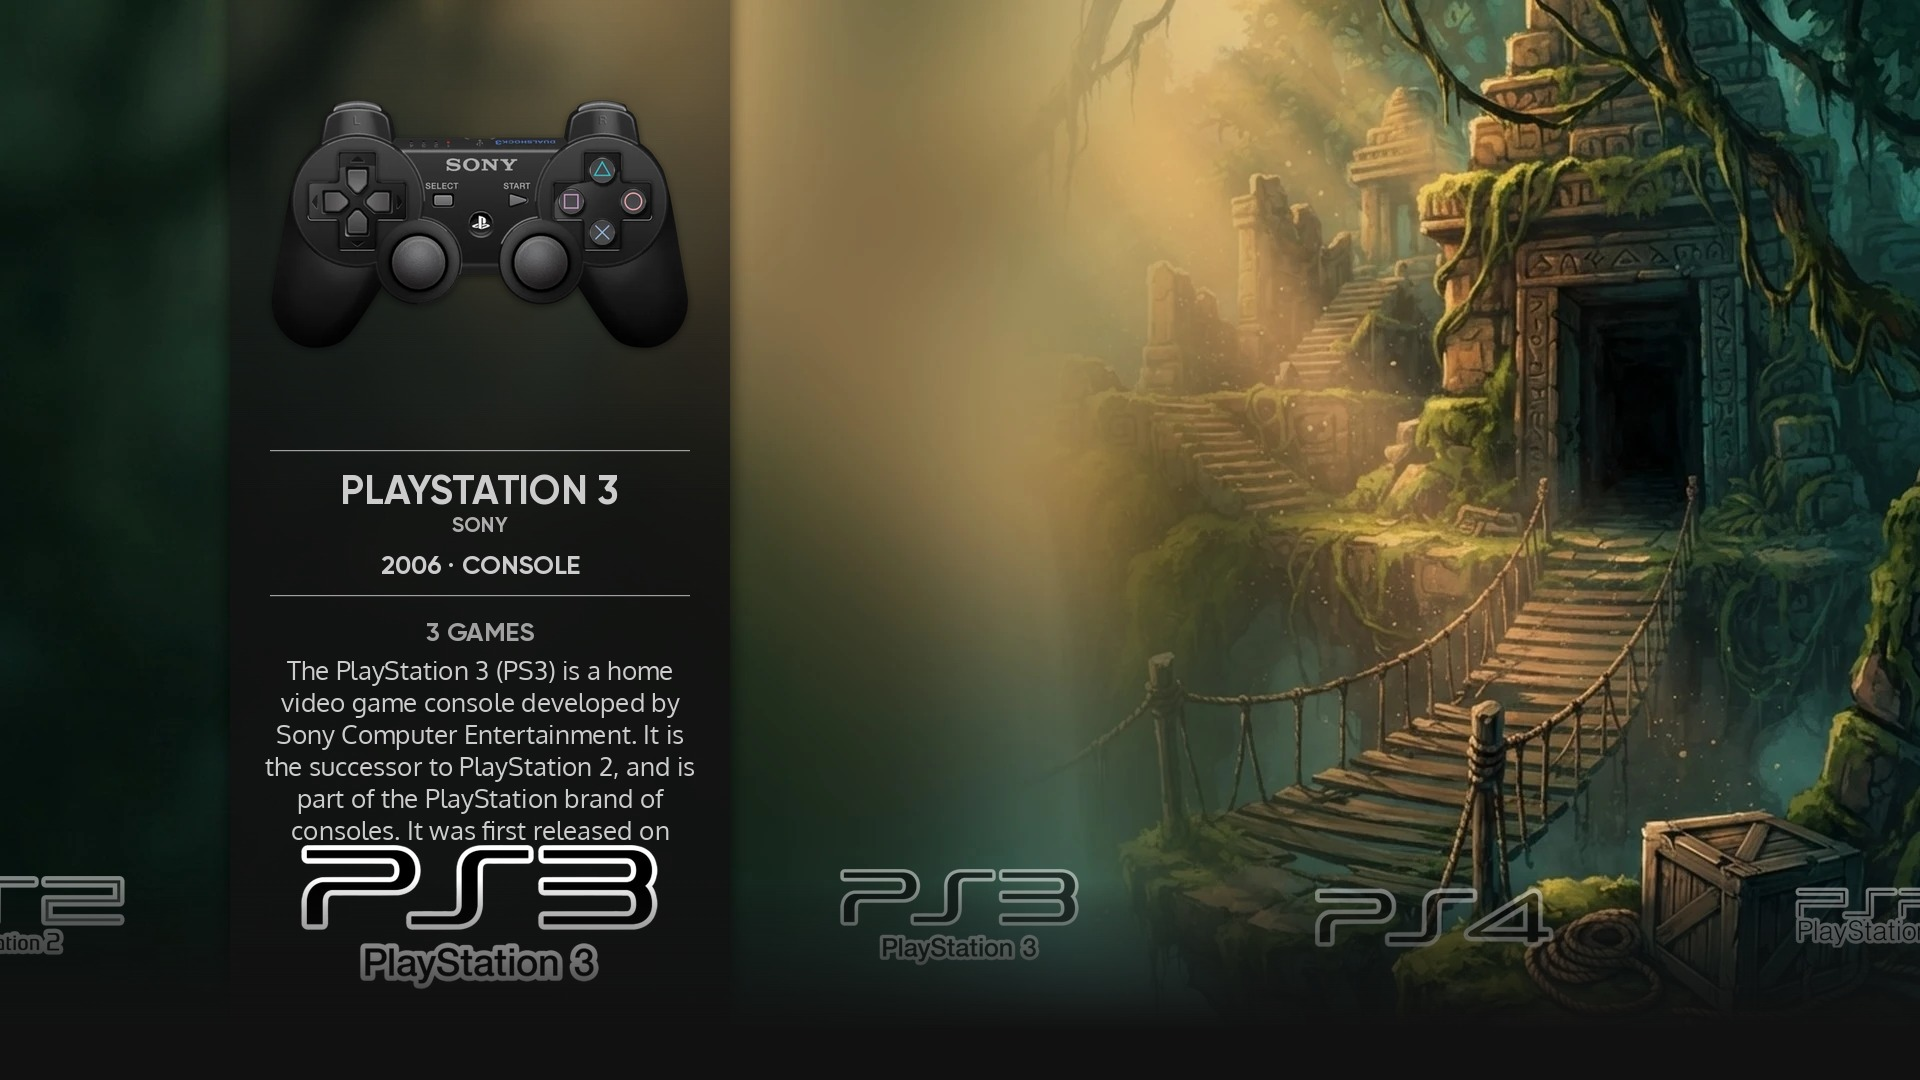
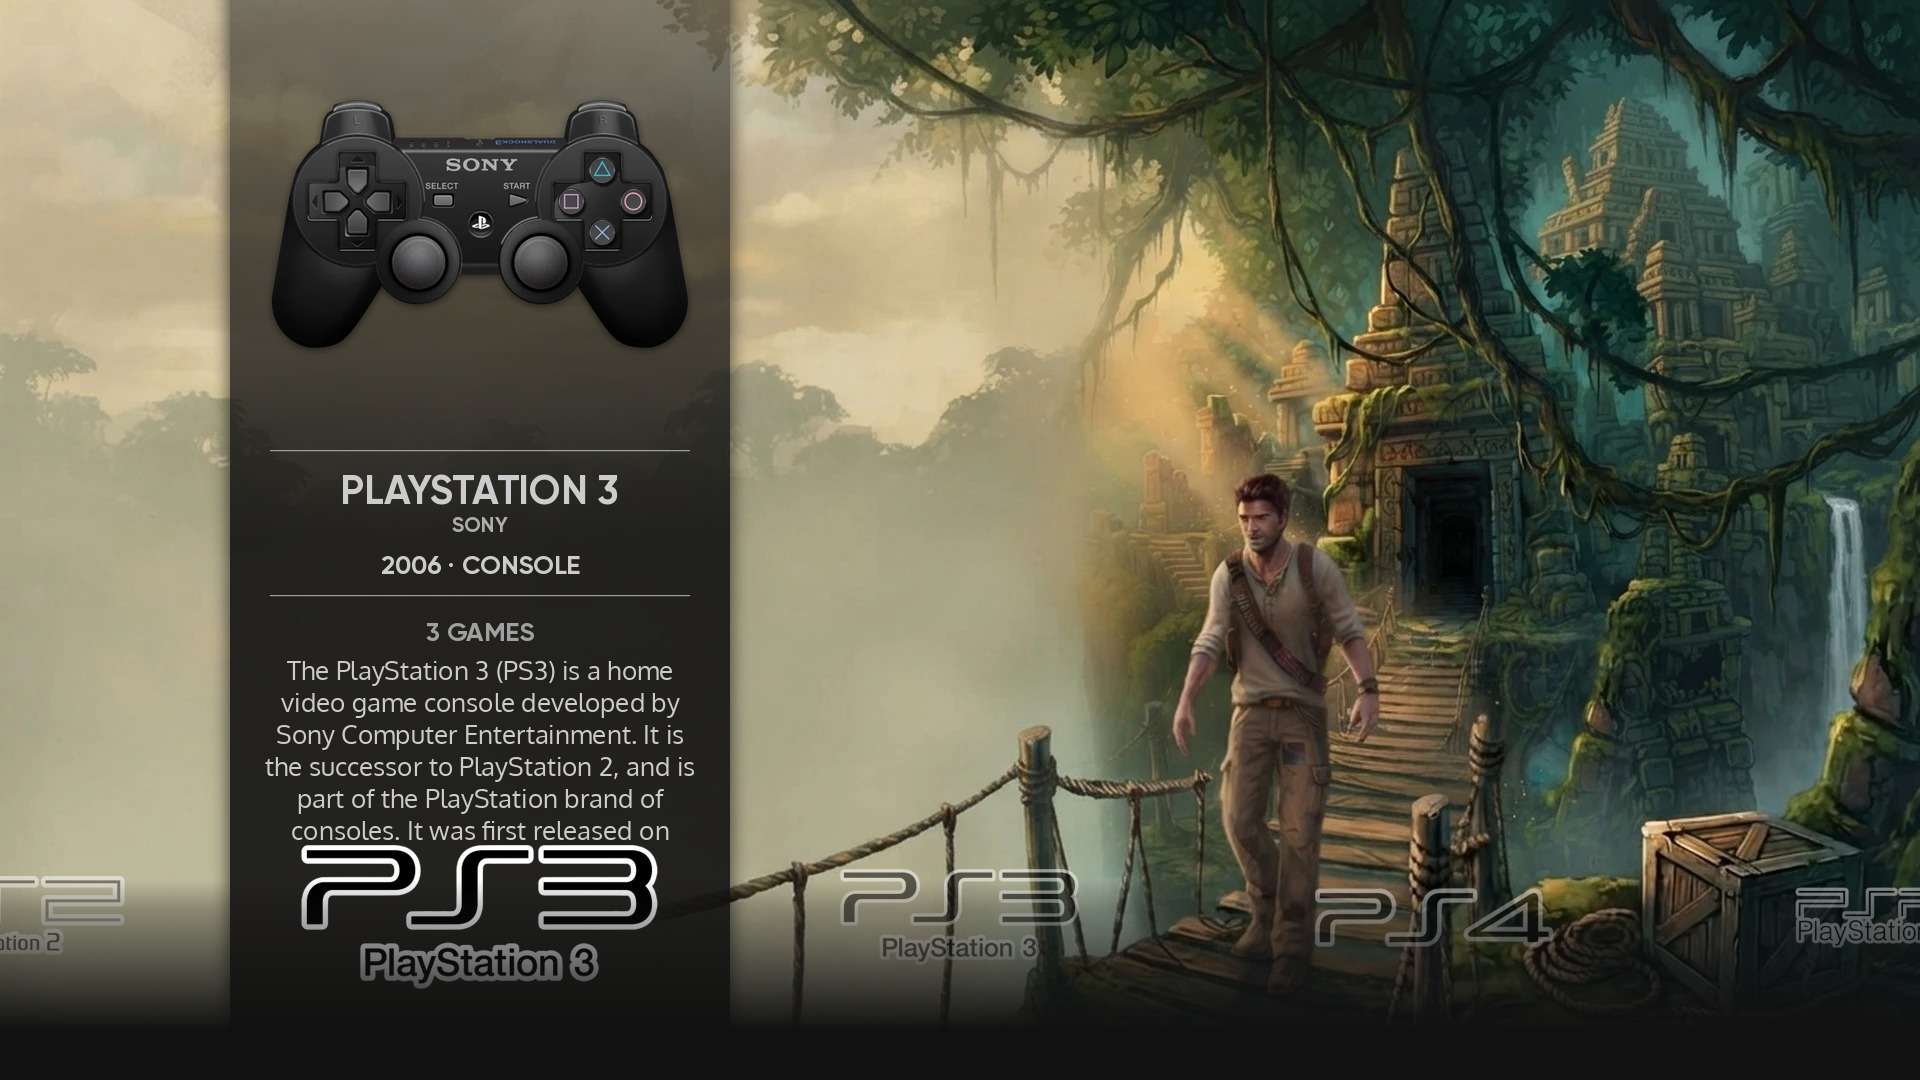
Update art: PS3 Uncharted zoom-out, sync sources/mockups, mockup text rule
Claude-Session: https://claude.ai/code/session_01V2gf5rqZzhTuPfXayJNr1F

diff --git a/NIGHTLY_LOG.md b/NIGHTLY_LOG.md
@@ -384,3 +384,7 @@ Five systems finished in total: studio2, orao, ondra, n501, pippin.
 - 2026-10-09 GameCube: Resident Evil 4 style village tribute (environment only, no characters) installed; ghost-hunter version backed up in replaced/
 - 2026-10-09 PS3: Uncharted-style jungle temple tribute (environment only, seam softened locally) installed over the fox art; fox version kept in replaced/ and sources/_reserved_for_ps3 (for PSP)
 - 2026-10-09: added CHARACTER_OUTLINE.md (generic Gemini brief for adding a character that fits the theme)
+- 2026-10-09 PS3: user's Gemini character version (1024x768) fitted 16:9 (crop rows 130-706), gentler seam fade, installed
+- 2026-10-09 PS3: Gemini edit of the clean background (user's mockup upload had UI baked in): character smaller, hands to the rope rails; installed
+- 2026-10-09 PS3: character re-added small via Gemini from the clean no-character background plus the user's character reference; installed
+2026-10-09: PS3 background re-done as Gemini zoom-out of the Uncharted scene (character smaller); previous backed up replaced/backgrounds-ps3-uncharted-small-character-v1.webp

diff --git a/NIGHTLY_RUN.md b/NIGHTLY_RUN.md
@@ -72,3 +72,6 @@ End every report (final message, NIGHTLY_LOG entry and PushNotification) with th
 
 ## Reserved art
 - sources/_reserved_for_ps3/: fox cub craft-world backgrounds (original character). User wants them used for PS3 and maybe PSP when we reach them. Do not delete.
+
+## Mockup text rule (standing, from Grant 2026-10-09)
+If the systems-column description text runs right onto the logo (as on PS2/PS3), render the mockup with the bottom two lines removed: `MAXLINES=4 python mk.py <sys>`. Default is 6 lines. Apply this by default whenever the text collides with the logo, same as the systems already done.
